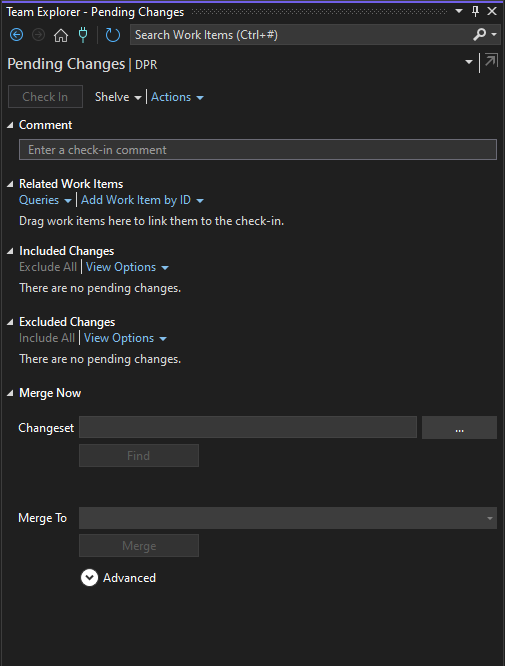
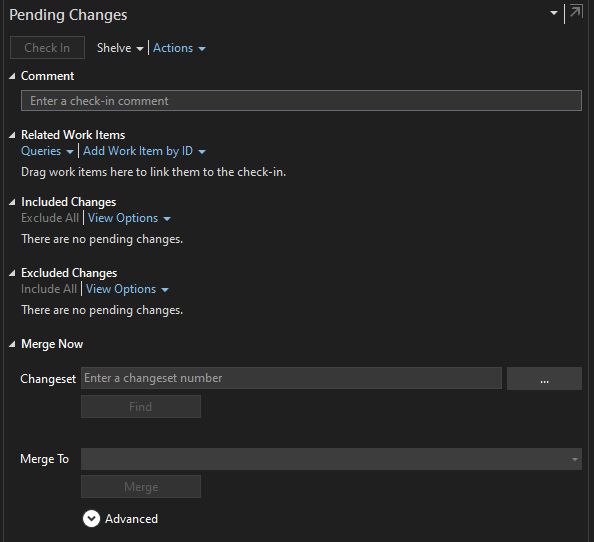
New margins with screenshot

diff --git a/src/Kapps.MergeNow/Views/MergeNowSectionControl.xaml b/src/Kapps.MergeNow/Views/MergeNowSectionControl.xaml
@@ -94,13 +94,13 @@
             </Hyperlink>
         </TextBlock>
 
-        <TextBlock Text="Merge To" Margin="0,15,0,0" VerticalAlignment="Center" Grid.Row="3" Grid.Column="0"
+        <TextBlock Text="Merge To" Margin="0,10,0,0" VerticalAlignment="Center" Grid.Row="3" Grid.Column="0"
                 Style="{StaticResource VsTextBlockStyle}"/>
-        <ComboBox Margin="5,15,1,0" Height="22" Grid.Row="3" Grid.Column="1" Grid.ColumnSpan="2" x:Name="TargetBranchCb"
+        <ComboBox Margin="5,10,1,0" Height="22" Grid.Row="3" Grid.Column="1" Grid.ColumnSpan="2" x:Name="TargetBranchCb"
                 ItemsSource="{Binding TargetBranches}" SelectedItem="{Binding SelectedTargetBranch}"
                 IsEnabled="{Binding AnyTargetBranches}"
                 Style="{DynamicResource {x:Static shell:VsResourceKeys.ComboBoxStyleKey}}"/>
-        <TextBlock Margin="5,15,1,0" Height="22" Grid.Row="3" Grid.Column="1" IsHitTestVisible="False" Opacity="0.5"
+        <TextBlock Margin="5,10,1,0" Height="22" Grid.Row="3" Grid.Column="1" IsHitTestVisible="False" Opacity="0.5"
                    Text="Select a target branch" VerticalAlignment="Center" HorizontalAlignment="Left" Padding="3">
             <TextBlock.Style>
                 <Style TargetType="{x:Type TextBlock}" BasedOn="{StaticResource VsTextBlockStyle}">
